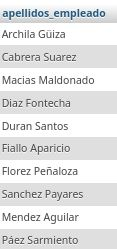
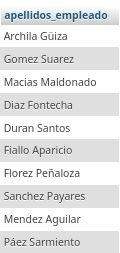
Finalicacion de ReadME

diff --git a/README.md b/README.md
@@ -34,11 +34,9 @@
 
 3. Obtener todos los datos de los empleados que se apellidan 'Gomez'.
 
-`SELECT * FROM Empleado WHERE apellidos_empleado = 'Gomez';`
+`SELECT * FROM Empleado WHERE apellidos_empleado LIKE 'Gomez%';`
 
 ![consulta3](img/consulta3.jpg "consulta3")
-
-*no tengo empleados con apellido Gomez*
 
 4. Obtener todos los datos de los empleados que se apellidan "Diaz" y los que se apellidan "Rodriguez".  Usar OR o IN
 
@@ -54,7 +52,31 @@
 
 6. Obtener todos los datos de los empleados cuyo apellido empiece por 'P'
 
-`SELECT * FROM Empleado
-WHERE apellidos_empleado LIKE 'P%';`
+`SELECT * FROM Empleado WHERE apellidos_empleado LIKE 'P%';`
 
 ![consulta6](img/consulta6.jpg "consulta6")
+
+7. Obtener el presupuesto total de todos los departamentos.
+
+`SELECT SUM(presupuesto_departamento) AS total_presupuesto FROM Departamento;`
+
+![consulta7](img/consulta7.jpg "consulta7")
+
+8. Obtener el número de empleados de cada departamento.
+
+`SELECT id_departamento, COUNT(*) AS cantidad_empleados FROM Empleado GROUP BY id_departamento;`
+
+![consulta8](img/consulta8.jpg "consulta8")
+
+9. Obtener un listado completo de empleados, incluyendo por cada empleado los datos del empleado y de su departamento.
+
+`SELECT * FROM Empleado, Departamento WHERE Empleado.id_departamento = Departamento.id_departamento;`
+
+![consulta9](img/consulta9.jpg "consulta9")
+
+10. Obtener un listado completo de empleados, incluyendo el nombre y apellidos del empleado junto al nombre y presupuesto de su departamento.
+
+`SELECT nombre_empleado,apellidos_empleado,nombre_departamento, presupuesto_departamento FROM Empleado, Departamento WHERE Empleado.id_departamento = Departamento.id_departamento;`
+
+![consulta10](img/consulta10.jpg "consulta10")
+
